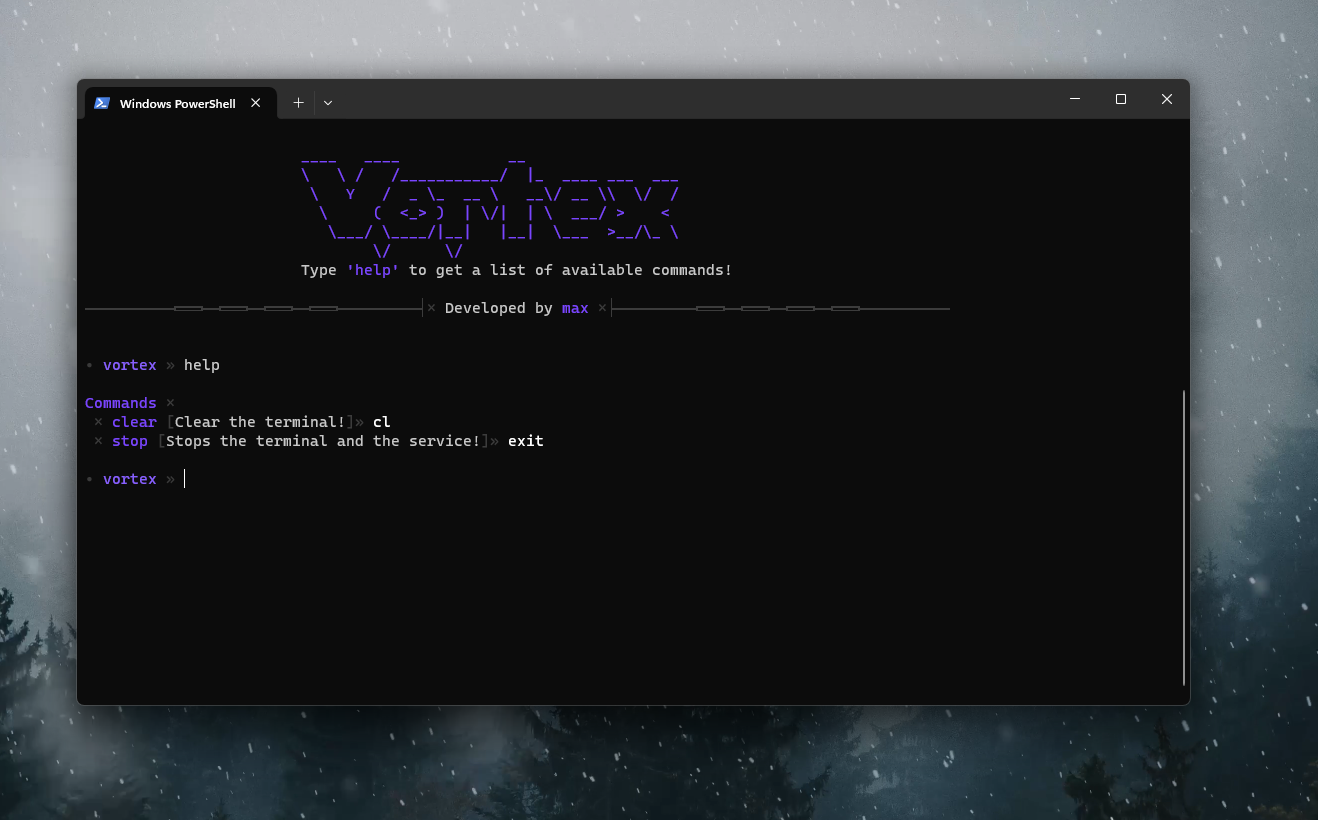
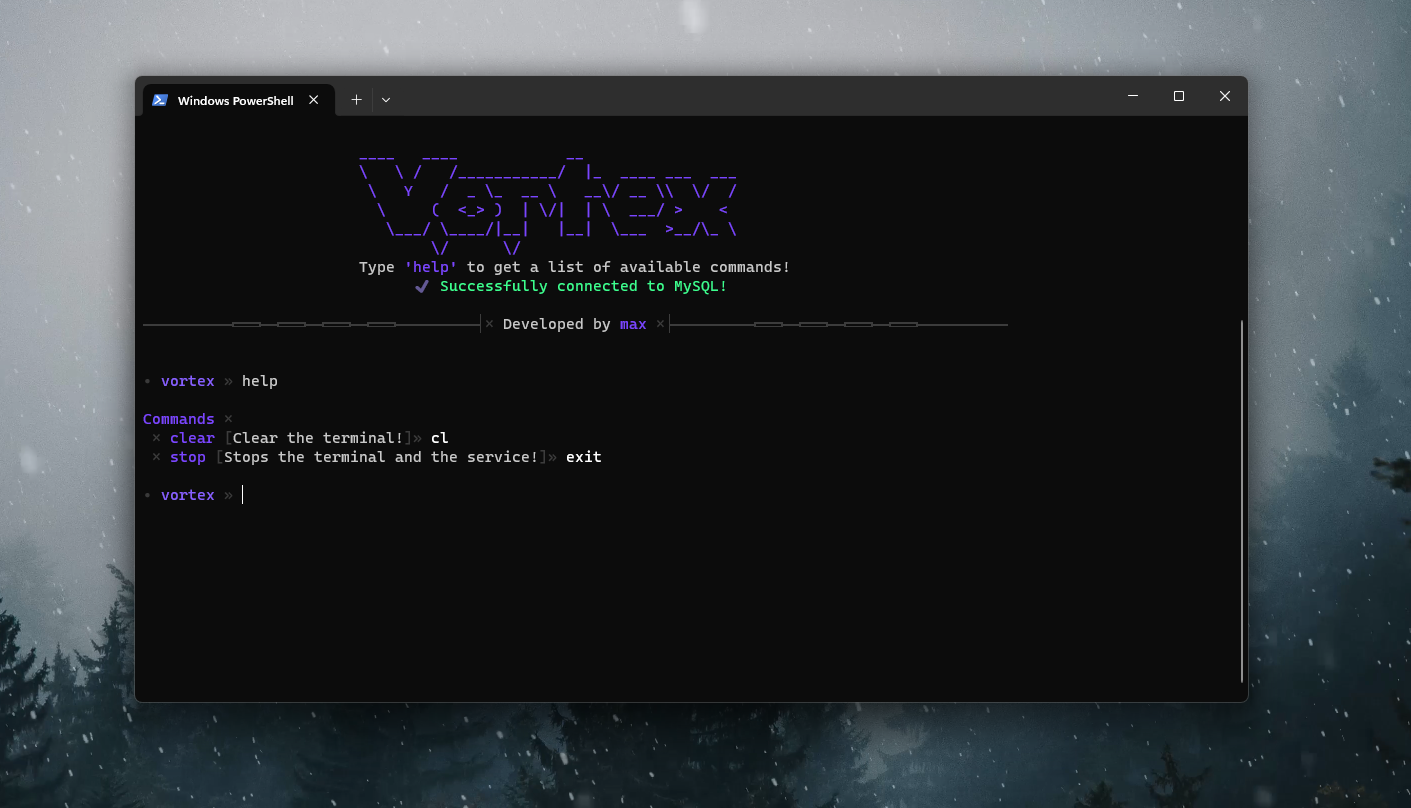
Added MySQL Support

diff --git a/src/main/java/dev/max/vortex/database/connection/MySQLConnection.java b/src/main/java/dev/max/vortex/database/connection/MySQLConnection.java
@@ -1,0 +1,153 @@
+package dev.max.vortex.database.connection;
+
+import dev.max.vortex.database.MySQL;
+import dev.max.vortex.database.model.MySQLInfo;
+
+import java.sql.Connection;
+import java.sql.PreparedStatement;
+import java.sql.ResultSet;
+import java.sql.SQLException;
+import java.util.ArrayList;
+import java.util.List;
+import java.util.stream.Stream;
+
+public class MySQLConnection {
+
+    private Connection connection;
+    private final MySQLInfo info;
+
+    public MySQLConnection(MySQLInfo info) {
+        this.info = info;
+    }
+
+    public MySQLConnection openConnection() {
+        this.connection = MySQL.openConnection(this.info);
+        return this;
+    }
+
+    public boolean isConnected() {
+        try {
+            return this.connection.isValid(1);
+        } catch (SQLException e) {
+            return false;
+        }
+    }
+
+    private void reopenConnectionIfNeeded() {
+        try {
+            if (connection.isClosed()) {
+                this.openConnection();
+            }
+        } catch (SQLException e) {
+            throw new RuntimeException(e);
+        }
+    }
+
+    public void consumeDirect(String statementString, ResultSetConsumer resultSetConsumer) {
+        this.consume(statementString, StatementPreparation.empty(), resultSetConsumer);
+    }
+
+    public <T> T queryDirect(String statementString, ResultSetObjectGetter<T> resultSetObjectGetter) {
+        return this.query(statementString, StatementPreparation.empty(), resultSetObjectGetter);
+    }
+
+    public <T> T query(String statementString, StatementPreparation statementPreparation, ResultSetObjectGetter<T> resultSetObjectGetter) {
+        final List<T> objects = this.queryList(statementString, statementPreparation, resultSetObjectGetter);
+        return !objects.isEmpty() ? objects.get(0) : null;
+    }
+
+    public <T> List<T> queryListDirect(String statementString, ResultSetObjectGetter<T> resultSetObjectGetter) {
+        return this.queryList(statementString, StatementPreparation.empty(), resultSetObjectGetter);
+    }
+
+    public <T> List<T> queryList(String statementString, StatementPreparation statementPreparation, ResultSetObjectGetter<T> resultSetObjectGetter) {
+        List<T> list = new ArrayList<>();
+        this.consume(statementString, statementPreparation, resultSet -> {
+            while (resultSet.next()) {
+                list.add(resultSetObjectGetter.get(resultSet));
+            }
+        });
+        return list;
+    }
+
+    public void consume(String statementString, StatementPreparation statementPreparation, ResultSetConsumer resultSetConsumer) {
+        this.prepare(statementString, statementPreparation, preparedStatement -> {
+            try (ResultSet resultSet = preparedStatement.executeQuery()) {
+                resultSetConsumer.consume(resultSet);
+            }
+        });
+    }
+
+    public void execute(String statementString, StatementPreparation statementPreparation) {
+        this.prepare(statementString, statementPreparation, PreparedStatement::execute);
+    }
+
+    public <T> void executeBatch(String statementString, Stream<T> stream, StatementStreamPreparation<T> statementStreamPreparation) {
+        this.prepare(statementString, preparedStatement -> {
+            stream.forEach(entry -> {
+                try {
+                    statementStreamPreparation.prepare(entry, preparedStatement);
+                    preparedStatement.addBatch();
+                    preparedStatement.clearParameters();
+                } catch (Throwable exception) {
+                    exception.printStackTrace();
+                }
+            });
+            preparedStatement.executeBatch();
+        });
+    }
+
+    public void prepare(String statementString, StatementPreparation statementPreparation, StatementPreparation postStatementPreparation) {
+        this.prepare(statementString, preparedStatement -> {
+            statementPreparation.prepare(preparedStatement);
+            postStatementPreparation.prepare(preparedStatement);
+        });
+    }
+
+    public void prepare(String statementString, StatementPreparation statementPreparation) {
+        this.reopenConnectionIfNeeded();
+        try (PreparedStatement preparedStatement = this.connection.prepareStatement(statementString)) {
+            statementPreparation.prepare(preparedStatement);
+        } catch (Throwable exception) {
+            exception.printStackTrace();
+        }
+    }
+
+    public void consumeInConstruction(String statementString, List<String> clauses, ResultSetConsumer resultSetConsumer) {
+        this.reopenConnectionIfNeeded();
+        StringBuilder in = new StringBuilder();
+
+        for (String clause : clauses) {
+            if (!in.toString().equals("")) {
+                in.append(", ");
+            }
+            in.append("'").append(clause.replaceAll("'", "''").replaceAll("\"", "\"\"")).append("'");
+        }
+
+        String replace = statementString.replace("?", in.toString());
+        consumeDirect(replace, resultSetConsumer);
+    }
+
+    public interface StatementPreparation {
+        StatementPreparation EMPTY = preparedStatement -> {
+        };
+
+        static StatementPreparation empty() {
+            return EMPTY;
+        }
+
+        void prepare(PreparedStatement preparedStatement) throws SQLException;
+    }
+
+    public interface StatementStreamPreparation<T> {
+        void prepare(T t, PreparedStatement preparedStatement) throws SQLException;
+    }
+
+    public interface ResultSetConsumer {
+        void consume(ResultSet resultSet) throws SQLException;
+    }
+
+    public interface ResultSetObjectGetter<T> {
+        T get(ResultSet resultSet) throws SQLException;
+    }
+}

diff --git a/src/main/java/dev/max/vortex/database/MySQL.java b/src/main/java/dev/max/vortex/database/MySQL.java
@@ -1,0 +1,41 @@
+package dev.max.vortex.database;
+
+import com.mysql.cj.jdbc.MysqlDataSource;
+import dev.max.vortex.database.connection.MySQLConnection;
+import dev.max.vortex.database.model.MySQLInfo;
+
+import java.sql.Connection;
+import java.sql.SQLException;
+
+/**
+ * @author gokimax at 12/28/2023
+ * @project api
+ */
+public class MySQL {
+
+    private static final String OPTIONS = "?jdbcCompliantTruncation=false&autoReconnect=true&zeroDateTimeBehavior=convertToNull&max_allowed_packet=512M&useLegacyDatetimeCode=false&serverTimezone=Europe/Berlin";
+
+    public static MySQLConnection createConnection(String host, int port, String database, String user, String password) {
+        return new MySQLConnection(new MySQLInfo(host, port, database, user, password)).openConnection();
+    }
+
+    public static Connection openConnection(MySQLInfo info) {
+        String host = info.getHost();
+        int port = info.getPort();
+        String database = info.getDatabase();
+        String user = info.getUser();
+        String password = info.getPassword();
+
+        MysqlDataSource source = new MysqlDataSource();
+        source.setUrl("jdbc:mysql://" + host + ":" + port + "/" + database + OPTIONS);
+        try {
+            source.setAutoReconnect(true);
+            source.setAutoReconnectForPools(true);
+            return source.getConnection(user, password);
+        } catch (SQLException exception) {
+            exception.printStackTrace();
+        }
+        return null;
+    }
+
+}

diff --git a/src/main/java/dev/max/vortex/VortexInstance.java b/src/main/java/dev/max/vortex/VortexInstance.java
@@ -3,7 +3,10 @@ package dev.max.vortex;
 import dev.max.vortex.commands.CommandManager;
 import dev.max.vortex.config.ConfigLoader;
 import dev.max.vortex.config.ConfigSaver;
+import dev.max.vortex.config.impl.MySQLConfig;
 import dev.max.vortex.config.impl.TerminalConfig;
+import dev.max.vortex.database.MySQL;
+import dev.max.vortex.database.connection.MySQLConnection;
 import dev.max.vortex.terminal.JLine3Terminal;
 import dev.max.vortex.utils.Common;
 import lombok.Getter;
@@ -20,12 +23,16 @@ public class VortexInstance {
   private final JLine3Terminal terminal;
   private static String name = "Template";
   private final TerminalConfig terminalConfig;
+  private final MySQLConfig mySQLConfig;
+  private final MySQLConnection mySQLConnection;
 
   public VortexInstance() {
     instance = this;
 
     // Config
     terminalConfig = new TerminalConfig("&6• &0vortex &6»");
+    mySQLConfig = new MySQLConfig("127.0.0.1", 3306, "vortex", "root", "");
+
     try {
       if(!ConfigSaver.configExists()) {
         ConfigSaver.saveConfig();
@@ -34,6 +41,9 @@ public class VortexInstance {
     } catch (Exception e) {
       e.printStackTrace();
     }
+
+    // MySQL
+    mySQLConnection = MySQL.createConnection(mySQLConfig.getHost(), mySQLConfig.getPort(), mySQLConfig.getDatabase(), mySQLConfig.getUser(), mySQLConfig.getPassword());
 
     // Terminal
     this.terminal = new JLine3Terminal();

diff --git a/src/main/java/dev/max/vortex/utils/Common.java b/src/main/java/dev/max/vortex/utils/Common.java
@@ -1,5 +1,6 @@
 package dev.max.vortex.utils;
 
+import dev.max.vortex.VortexInstance;
 import dev.max.vortex.terminal.JLine3Terminal;
 
 /**
@@ -9,6 +10,7 @@ import dev.max.vortex.terminal.JLine3Terminal;
 public class Common {
 
   public static void printBanner(JLine3Terminal terminal) {
+    boolean mySQLConnected = VortexInstance.getInstance().getMySQLConnection().isConnected();
     terminal.write("");
     terminal.write("&0\t\t\t____   ____            __                 ");
     terminal.write("&0\t\t\t\\   \\ /   /___________/  |_  ____ ___  ___");
@@ -17,6 +19,7 @@ public class Common {
     terminal.write("&0\t\t\t   \\___/ \\____/|__|   |__|  \\___  >__/\\_ \\");
     terminal.write("&0                                \\/      \\/");
     terminal.write("&5\t\t\tType &0'help' &5to get a list of available commands!");
+    terminal.write("\t\t\t      " + (mySQLConnected ? "&2✔ Successfully connected to MySQL!" : "&0❌ Error whilst connecting to MySQL!"));
     terminal.write("");
     terminal.write("&6──────────═══──═══──═══──═══─────────┤× &5Developed by &0max &6×├─────────═══──═══──═══──═══──────────");
     terminal.write("");

diff --git a/src/main/java/dev/max/vortex/config/ConfigLoader.java b/src/main/java/dev/max/vortex/config/ConfigLoader.java
@@ -2,7 +2,7 @@ package dev.max.vortex.config;
 
 import com.google.gson.Gson;
 import dev.max.vortex.VortexInstance;
-import dev.max.vortex.config.impl.TerminalConfig;
+import dev.max.vortex.config.impl.*;
 import dev.max.vortex.utils.OSUtil;
 
 import java.io.FileNotFoundException;
@@ -21,6 +21,13 @@ public class ConfigLoader {
 
     TerminalConfig terminalConfig = VortexInstance.getInstance().getTerminalConfig();
     terminalConfig.setPrompt(config.getTerminalConfig().getPrompt());
+
+    MySQLConfig mySQLConfig = VortexInstance.getInstance().getMySQLConfig();
+    mySQLConfig.setHost(config.getMySQLConfig().getHost());
+    mySQLConfig.setPort(config.getMySQLConfig().getPort());
+    mySQLConfig.setDatabase(config.getMySQLConfig().getDatabase());
+    mySQLConfig.setUser(config.getMySQLConfig().getUser());
+    mySQLConfig.setPassword(config.getMySQLConfig().getPassword());
 
 
   }

diff --git a/src/main/java/dev/max/vortex/config/ConfigSaver.java b/src/main/java/dev/max/vortex/config/ConfigSaver.java
@@ -2,6 +2,7 @@ package dev.max.vortex.config;
 
 import com.google.gson.Gson;
 import dev.max.vortex.VortexInstance;
+import dev.max.vortex.config.impl.MySQLConfig;
 import dev.max.vortex.config.impl.TerminalConfig;
 import dev.max.vortex.utils.OSUtil;
 
@@ -24,8 +25,8 @@ public class ConfigSaver {
 
     Configs configs = new Configs();
 
-    TerminalConfig terminalConfig = VortexInstance.getInstance().getTerminalConfig();
-    configs.setTerminalConfig(terminalConfig);
+    configs.setTerminalConfig(VortexInstance.getInstance().getTerminalConfig());
+    configs.setMySQLConfig(VortexInstance.getInstance().getMySQLConfig());
 
     String json = new Gson().toJson(configs);
     writer.write(json);

diff --git a/src/main/java/dev/max/vortex/config/impl/MySQLConfig.java b/src/main/java/dev/max/vortex/config/impl/MySQLConfig.java
@@ -1,0 +1,22 @@
+package dev.max.vortex.config.impl;
+
+import lombok.AllArgsConstructor;
+import lombok.Getter;
+import lombok.Setter;
+
+/**
+ * @author gokimax at 12/28/2023
+ * @project vortex
+ */
+@AllArgsConstructor
+@Getter
+@Setter
+public class MySQLConfig {
+
+  private String host;
+  private int port;
+  private String database;
+  private String user;
+  private String password;
+
+}

diff --git a/src/main/java/dev/max/vortex/database/model/MySQLInfo.java b/src/main/java/dev/max/vortex/database/model/MySQLInfo.java
@@ -1,0 +1,16 @@
+package dev.max.vortex.database.model;
+
+import lombok.AllArgsConstructor;
+import lombok.Getter;
+import lombok.Setter;
+
+@Getter
+@Setter
+@AllArgsConstructor
+public class MySQLInfo {
+    private final String host;
+    private final int port;
+    private final String database;
+    private final String user;
+    private final String password;
+}

diff --git a/src/main/java/dev/max/vortex/config/Configs.java b/src/main/java/dev/max/vortex/config/Configs.java
@@ -1,7 +1,6 @@
 package dev.max.vortex.config;
 
-import dev.max.vortex.config.impl.TerminalConfig;
-import lombok.AllArgsConstructor;
+import dev.max.vortex.config.impl.*;
 import lombok.Getter;
 import lombok.Setter;
 
@@ -14,5 +13,6 @@ import lombok.Setter;
 public class Configs {
 
   private TerminalConfig terminalConfig;
+  private MySQLConfig mySQLConfig;
 
 }
